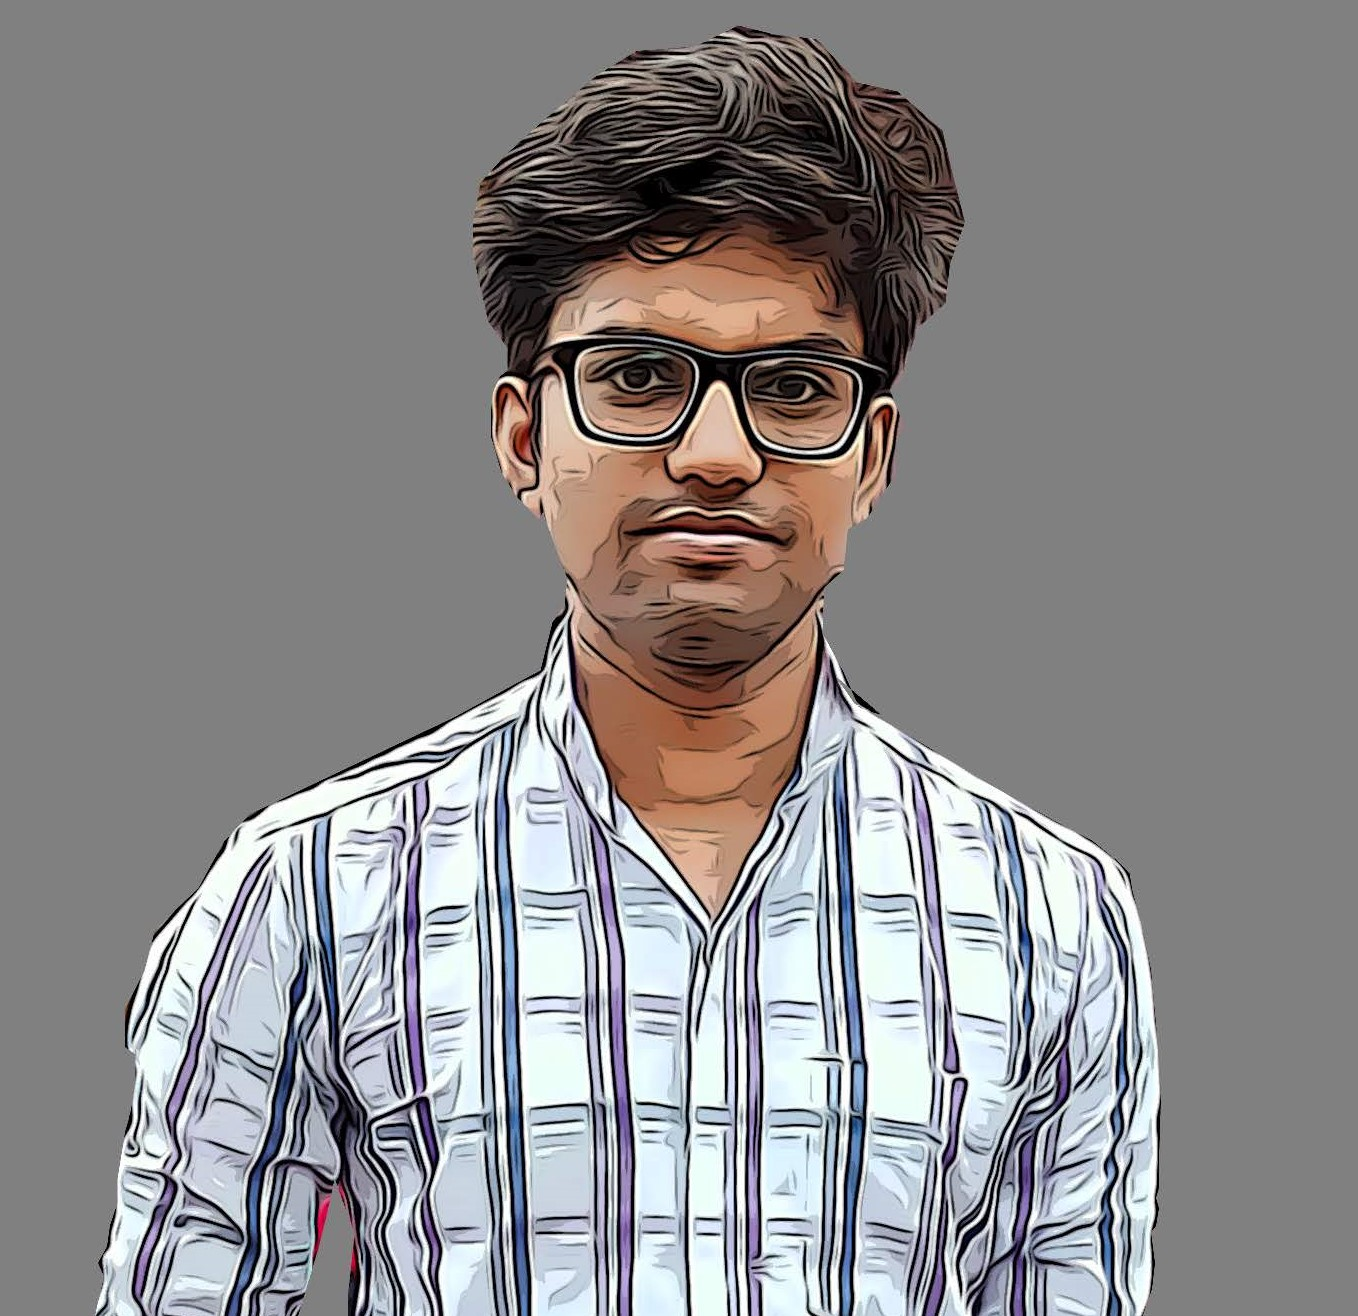
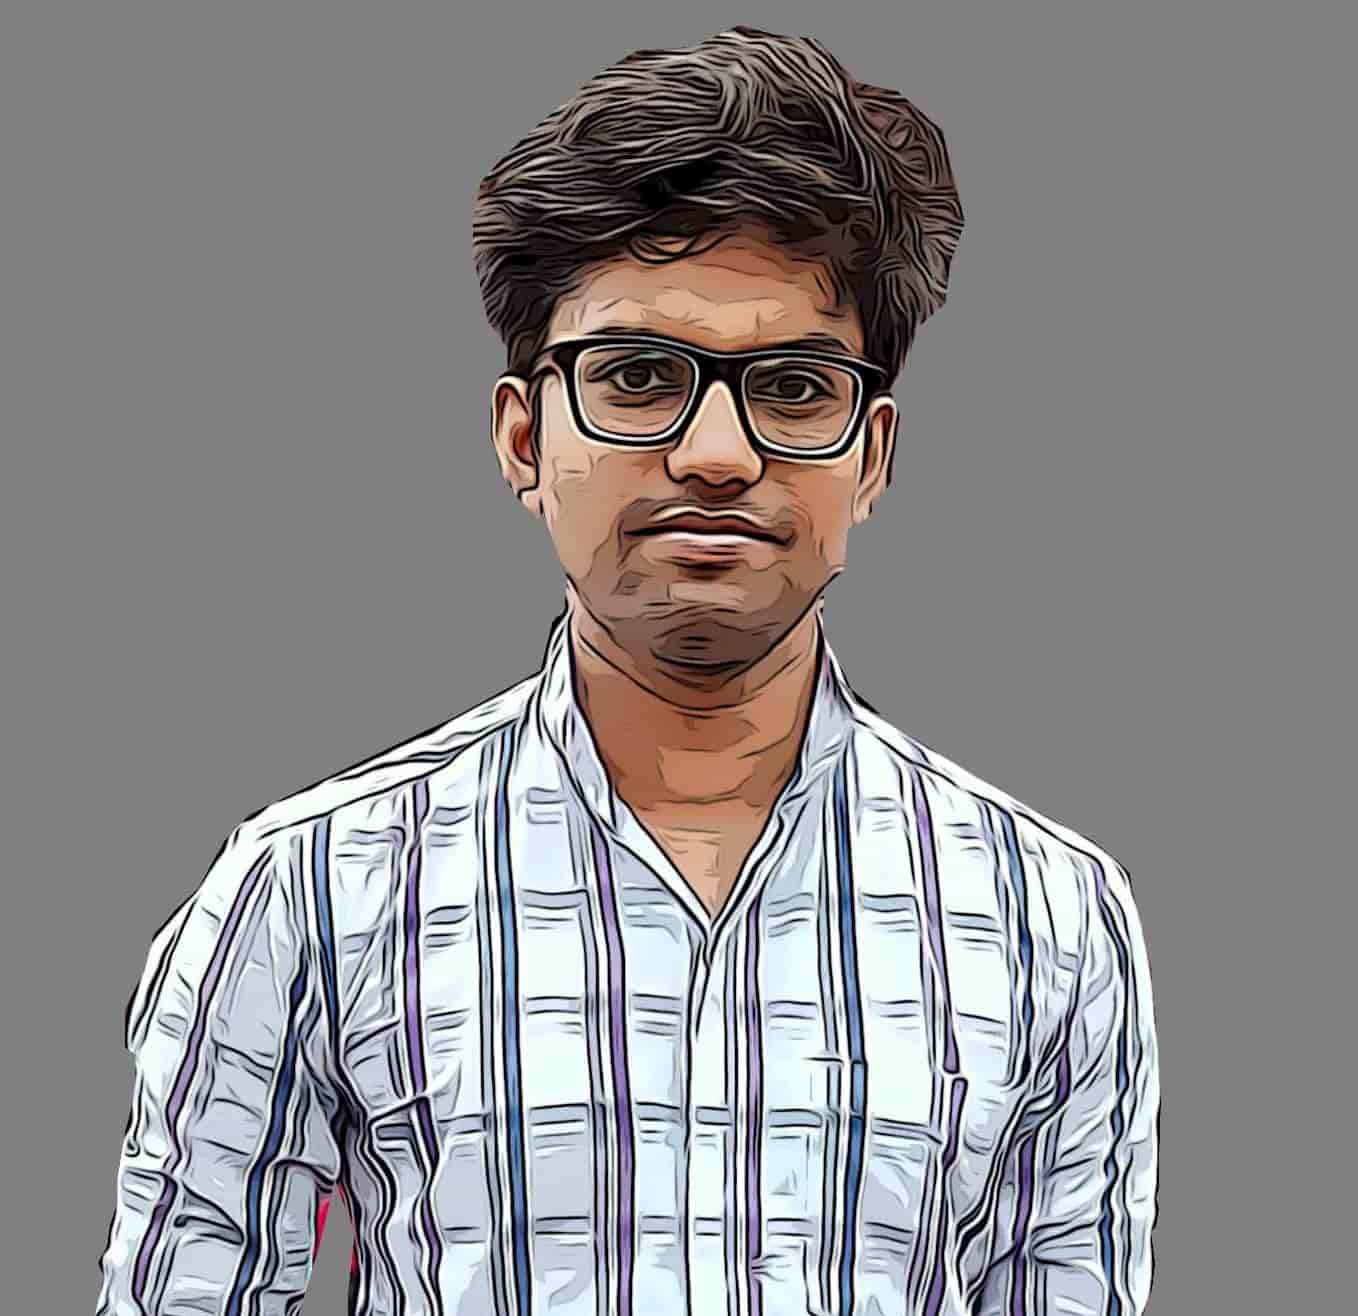
Compressed images and optimised Resources

diff --git a/index.html b/index.html
@@ -315,10 +315,13 @@
                 class="text-white text-center pricing-card d-flex align-items-center rgba-stylish-strong py-3 px-3 rounded">
                 <div class="card-body">
                   <div class="h4">Introduction Web Vulnerabilities</div>
-                  <div class="h6"> - By Rahul Varale </div>
-                  <a href="https://seminar.now.sh/" target="_blank">
-                    <a class="btn btn-outline-white mt-5"> Read Now </a>
-                  </a>
+                  <br>
+                  <i class="fa fa-book fa-2x"></i>
+                  <div class="h6"><strong> Online Notebook</strong></div>
+                  <div class="h6"><I>- Rahul Varale</I></div>
+
+                  <a href="https://seminar.now.sh/" target="_blank" class="btn btn-outline-white mt-5"> Read Now </a>
+
                 </div>
               </div>
             </div>
@@ -330,10 +333,13 @@
                 <div class="card-body">
                   <div class="h4">LSB Image Steganography Using Python</div>
                   <br>
-                  <div class="h6"> - By Devang Jain </div>
-                  <a href="https://medium.com/swlh/lsb-image-steganography-using-python-2bbbee2c69a2" target="_blank">
-                    <a class="btn btn-outline-white mt-5"> Read Now </a>
-                  </a>
+                  <i class="fa fa-medium fa-2x"></i>
+                  <div class="h6"><strong>Medium Blog</strong></div>
+                  <div class="h6"><I>- Devang Jain</I></div>
+
+                  <a href=https://medium.com/swlh/lsb-image-steganography-using-python-2bbbee2c69a2" target="_blank"
+                    class="btn btn-outline-white mt-5"> Read Now </a>
+
                 </div>
               </div>
             </div>
@@ -344,10 +350,14 @@
                 class="text-white text-center pricing-card d-flex align-items-center rgba-teal-strong py-3 px-3 rounded">
                 <div class="card-body">
                   <div class="h4">Python KeyLogger Tutorial</div>
-                  <div class="h6"> - By Devang Jain </div>
-                  <a href="https://medium.com/analytics-vidhya/python-keylogger-tutorial-ef178d02f24a" target="_blank">
-                    <a class="btn btn-outline-white mt-5"> Read Now </a>
-                  </a>
+                  <br>
+                  <i class="fa fa-medium fa-2x"></i>
+                  <div class="h6"><strong> Medium Blog</strong></div>
+                  <div class="h6"><I>- Devang Jain</I></div>
+
+                  <a href="https://medium.com/analytics-vidhya/python-keylogger-tutorial-ef178d02f24a" target="_blank"
+                    class="btn btn-outline-white mt-5"> Read Now </a>
+
                 </div>
               </div>
             </div>
